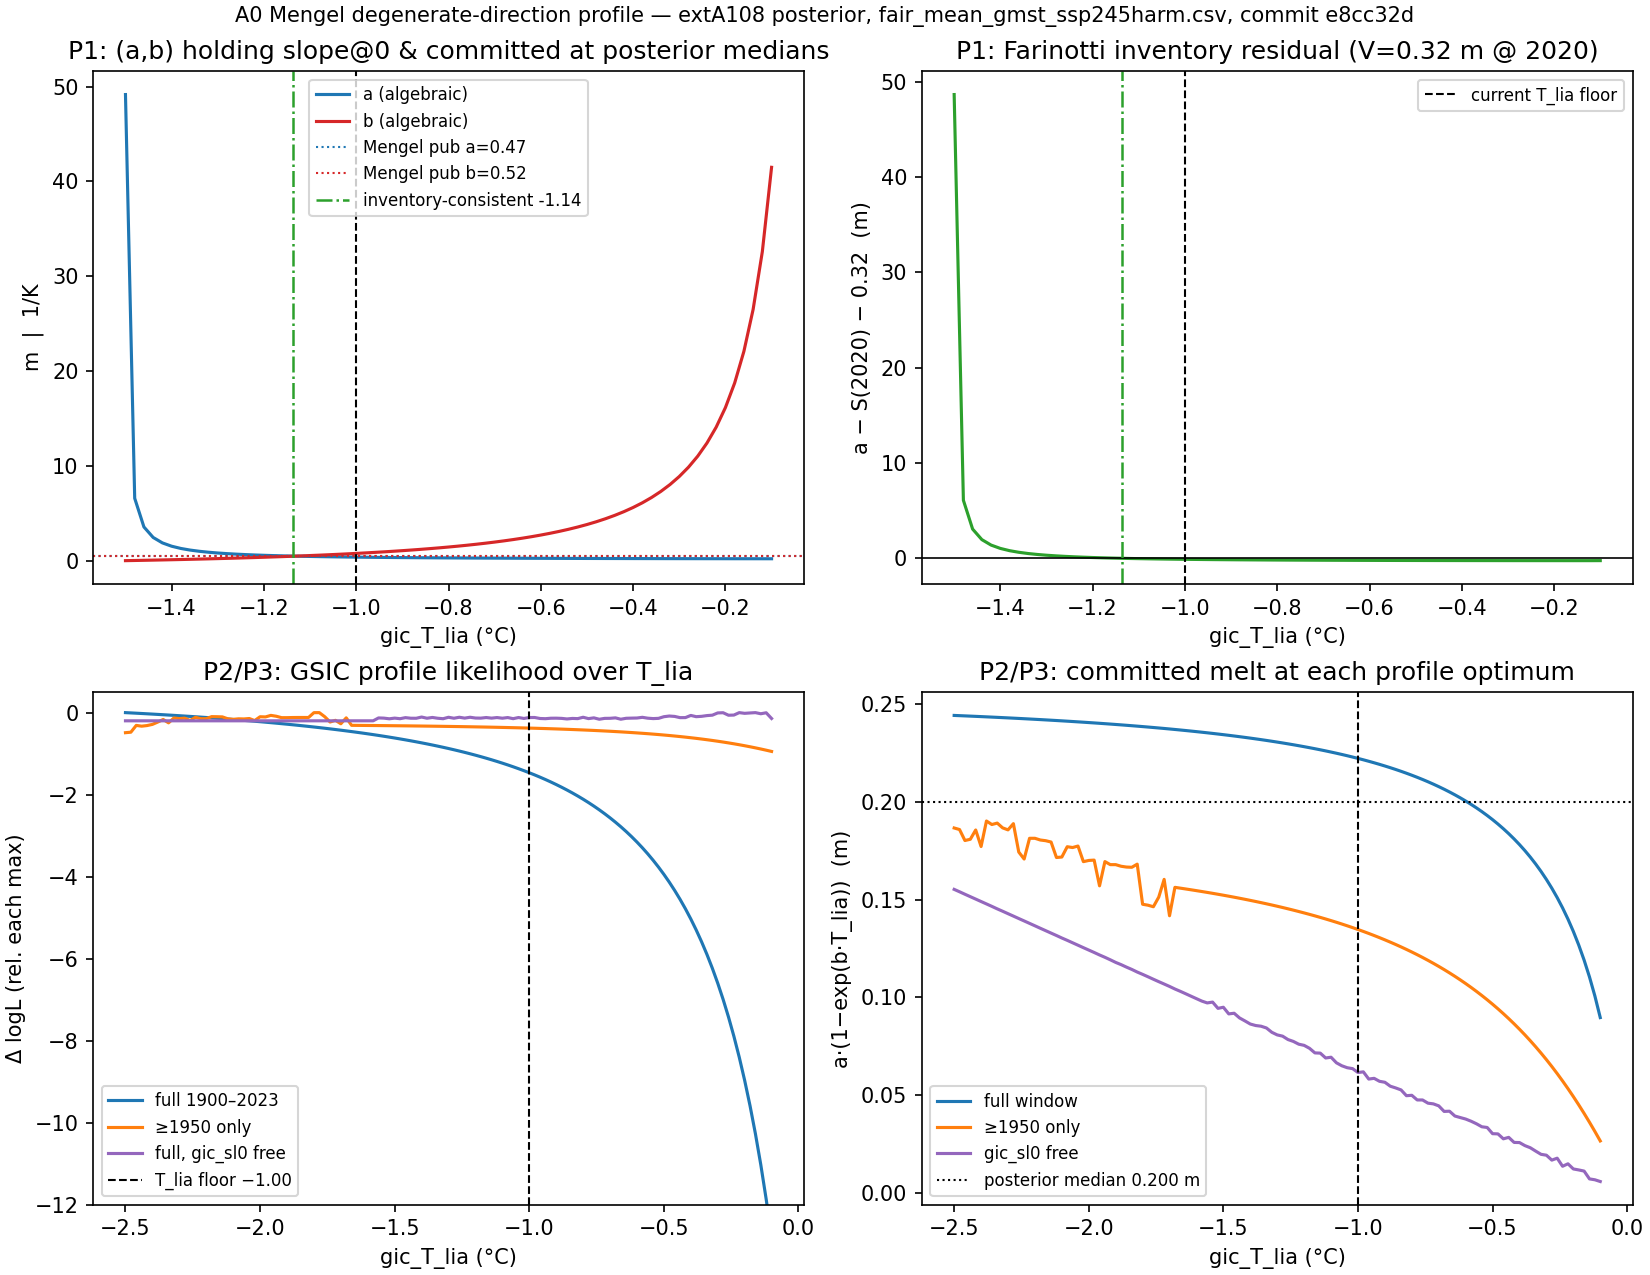
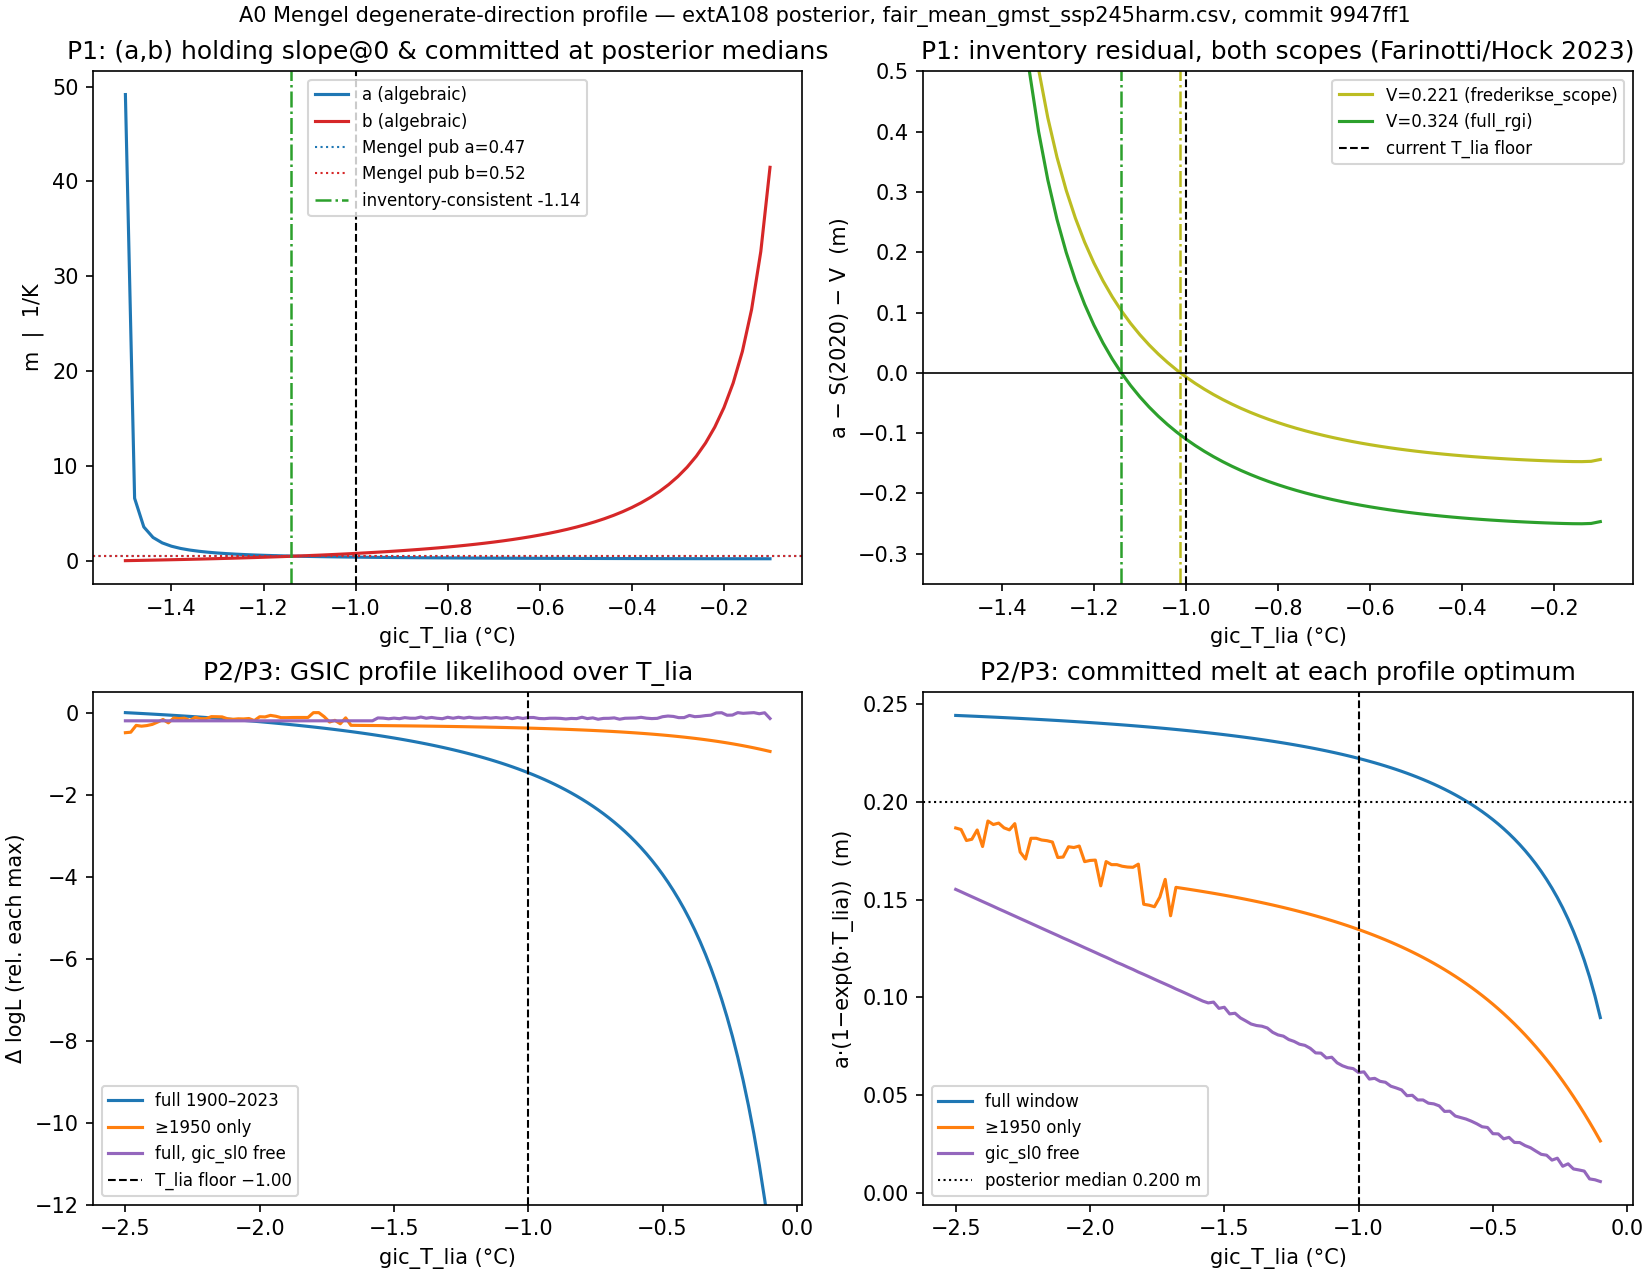
A0: report inventory-consistency at BOTH scopes (Frederikse-matched 0.221 / full-RGI 0.324)
Agent-verified (Hock 2023 JoG reconciliation): the Frederikse-2020 glacier
target excludes peripheral regions 5+19, so the scope-matched inventory is
0.221+/-0.057 m SLE, not the 0.32 used as the gic_a floor. Crossings:
scope-matched T_lia=-1.012 (a=0.380, b=0.737); full-RGI T_lia=-1.140
(a=0.486, b=0.464 = Mengel published). Only the full-RGI solution passes
the GlacierMIP3 committed-loss ladder; scope decision goes to Marcus.

diff --git a/python/a0_mengel_profile.py b/python/a0_mengel_profile.py
@@ -55,8 +55,13 @@ Y0, Y1 = 1850, 2026            # calibrate_mcmc_ext.jl model window
 BASE0, BASE1 = 1995, 2005      # reref window (cm anomalies)
 FIT_START = 1900               # first GSIC target year
 EARLY_CUT_YEAR = 1950          # "early-20th-c removed" = fit years >= this
-INVENTORY_M = 0.32             # Farinotti-2019 value used as the gic_a floor (A2 will re-check scope)
-INV_YEAR = 2020                # inventory reference year: a − S(INV_YEAR) vs INVENTORY_M
+# Present-day glacier inventory (m SLE), TWO SCOPES (agent-verified 2026-08-05, Hock 2023 JoG
+# reconciliation): the Frederikse-2020 glacier target EXCLUDES peripheral regions 5+19, so the
+# scope-MATCHED inventory is 0.221±0.057 (Farinotti 2019 excl. 5+19; Millan matched 0.223±0.073).
+# The 0.324±0.084 full-RGI value (the gic_a floor's 0.32) INCLUDES peripheries — scope-mixed
+# vs the calibration target. Both crossings reported; the A5 scope decision is Marcus's.
+INVENTORY_SCOPES = {"frederikse_scope_0.221": 0.221, "full_rgi_0.324": 0.324}
+INV_YEAR = 2020                # inventory reference year: a − S(INV_YEAR) vs inventory
 TLIA_GRID = np.round(np.arange(-2.50, -0.099, 0.02), 4)
 TLIA_FLOOR, B_CEIL = -1.00, 1.00        # current prior box (calibrate_mcmc_ext.jl:153-154)
 MENGEL_PUB_A, MENGEL_PUB_B = 0.47, 0.52  # Mengel 2016 multi-model medians
@@ -164,23 +169,28 @@ for tl in TLIA_GRID:
     if np.isfinite(a1):
         _, s_raw = model_cm(a1, b1, tl)
         s2020 = s_raw[inv_idx]
-        inv_res = a1 - s2020 - INVENTORY_M
         ll_alg = logl_full(a1, b1, tl)
     else:
-        s2020 = inv_res = ll_alg = np.nan
-    rows.append(dict(T_lia=tl, a_alg=a1, b_alg=b1, S2020_alg=s2020,
-                     inv_resid_alg=inv_res, logl_alg=ll_alg))
+        s2020 = ll_alg = np.nan
+    row = dict(T_lia=tl, a_alg=a1, b_alg=b1, S2020_alg=s2020, logl_alg=ll_alg)
+    for scope, inv in INVENTORY_SCOPES.items():
+        row[f"inv_resid_{scope}"] = a1 - s2020 - inv if np.isfinite(a1) else np.nan
+    rows.append(row)
 prof = pd.DataFrame(rows)
 
-ok = prof.dropna(subset=["inv_resid_alg"])
-sign_change = np.where(np.diff(np.sign(ok["inv_resid_alg"])))[0]
-tlia_cross = np.nan
-if len(sign_change):
-    i = sign_change[0]
-    x0, x1 = ok["T_lia"].iloc[i], ok["T_lia"].iloc[i + 1]
-    r0, r1 = ok["inv_resid_alg"].iloc[i], ok["inv_resid_alg"].iloc[i + 1]
-    tlia_cross = x0 - r0 * (x1 - x0) / (r1 - r0)
-    a_cross, b_cross = solve_ab(tlia_cross)
+crossings = {}
+for scope in INVENTORY_SCOPES:
+    ok = prof.dropna(subset=[f"inv_resid_{scope}"])
+    res = ok[f"inv_resid_{scope}"].to_numpy()
+    sign_change = np.where(np.diff(np.sign(res)))[0]
+    if len(sign_change):
+        i = sign_change[0]
+        x0, x1 = ok["T_lia"].iloc[i], ok["T_lia"].iloc[i + 1]
+        x = x0 - res[i] * (x1 - x0) / (res[i + 1] - res[i])
+        crossings[scope] = (x, *solve_ab(x))
+tlia_cross = crossings.get("full_rgi_0.324", (np.nan,))[0]   # headline = handoff's scope
+if np.isfinite(tlia_cross):
+    _, a_cross, b_cross = crossings["full_rgi_0.324"]
 
 # ------------------------------------------------- P2/P3: profile likelihood
 def profile_opt(logl, tl, x_warm, free_sl0=False):
@@ -233,11 +243,12 @@ late_range = prof["logl_late"].max() - prof["logl_late"].min()
 full_range = prof["logl_full"].max() - prof["logl_full"].min()
 
 print("\n=== P1 (algebraic profile) ===")
+for scope, (x, ax, bx) in crossings.items():
+    print(f"  inventory-consistency crossing [{scope}]: T_lia = {x:.3f}  (a={ax:.3f}, b={bx:.3f})")
 if np.isfinite(tlia_cross):
-    print(f"  inventory-consistency crossing: T_lia = {tlia_cross:.3f}  "
-          f"(a={a_cross:.3f}, b={b_cross:.3f}; handoff predicted ~ -1.1 to -1.2, a=0.479, b=0.476)")
+    print("  (handoff predicted, full-RGI scope: T_lia ~ -1.1 to -1.2, a=0.479, b=0.476)")
 else:
-    print("  NO inventory-consistency crossing on the grid — §1 story NOT confirmed")
+    print("  NO full-RGI inventory-consistency crossing on the grid — §1 story NOT confirmed")
 print(f"  algebraic domain limit: no (a,b) solution for T_lia <= {-COMMITTED_MED/SLOPE0_MED:.3f}")
 
 print("\n=== P2 (profile likelihood over T_lia) ===")
@@ -277,13 +288,14 @@ axA.set(xlabel="gic_T_lia (°C)", ylabel="m  |  1/K",
         title="P1: (a,b) holding slope@0 & committed at posterior medians")
 axA.legend(fontsize=8)
 
-axB.plot(prof["T_lia"], prof["inv_resid_alg"], color="tab:green")
+for (scope, inv), c in zip(INVENTORY_SCOPES.items(), ["tab:olive", "tab:green"]):
+    axB.plot(prof["T_lia"], prof[f"inv_resid_{scope}"], color=c, label=f"V={inv} ({scope.split('_0')[0]})")
+    if scope in crossings:
+        axB.axvline(crossings[scope][0], color=c, ls="-.", lw=1.2)
 axB.axhline(0, color="k", lw=0.8)
 axB.axvline(TLIA_FLOOR, color="k", ls="--", lw=1, label="current T_lia floor")
-if np.isfinite(tlia_cross):
-    axB.axvline(tlia_cross, color="tab:green", ls="-.", lw=1.2)
-axB.set(xlabel="gic_T_lia (°C)", ylabel="a − S(2020) − 0.32  (m)",
-        title=f"P1: Farinotti inventory residual (V={INVENTORY_M} m @ {INV_YEAR})")
+axB.set(xlabel="gic_T_lia (°C)", ylabel=f"a − S({INV_YEAR}) − V  (m)",
+        title="P1: inventory residual, both scopes (Farinotti/Hock 2023)", ylim=(-0.35, 0.5))
 axB.legend(fontsize=8)
 
 for col, lab, c in [("logl_full", f"full {fit_years[0]}–{fit_years[-1]}", "tab:blue"),
